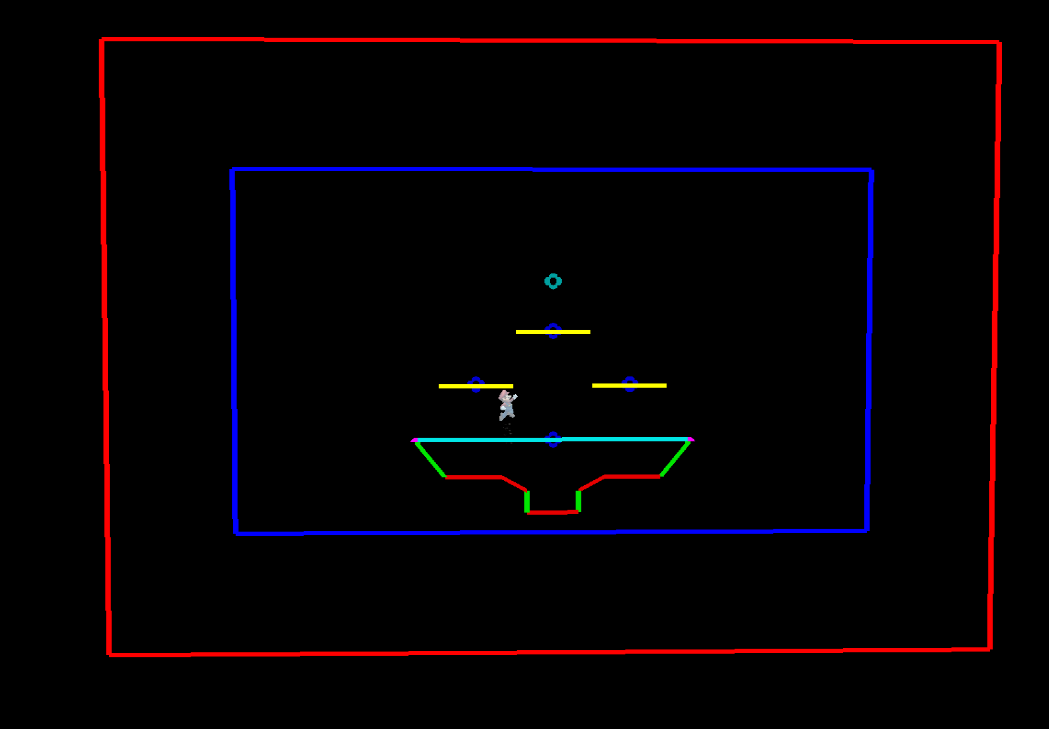
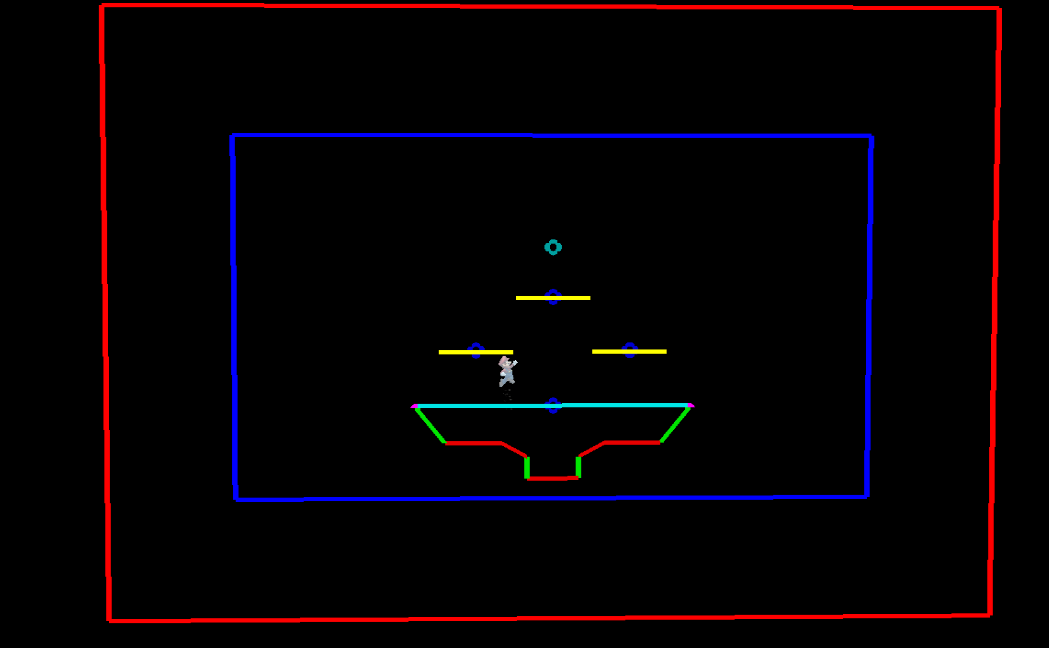
Fixed carousel controls to work and made images correct size

diff --git a/features.html b/features.html
@@ -65,91 +65,94 @@
     </header>
     <section id="centerSection">
         <div class="row d-flex align-items-center">
+            
             <div class="feature-text col-md-6 text-center text-md-end col-xl-3 order-xl-1">
                 <h1 class="general-header">
-                    One feature here
+                    Complete Rewrite
                 </h1>
-                heres a description on that stuff, how ya doing im filling this. Smash is a videogame about hitting
-                opponent till you knock them out of the field. I wrote a thing that lets you view exactly how collisions
-                and logic works in this environment
+                <p>
+                    Most of the original debug modes codes are very messy in design. This rework completely shifts logic from inside the gecko pass to individual <i>renderDebug</i> functions of each object. This way of working makes it so it is very generalisable. Hitbox renderring was written for fighters but automatically works for hazards on stages as well as subspace enemies and bosses.   
+                </p>
             </div>
-            <div class="col-md-6 text-center text-md-start col-xl-3 order-xl-3">
+            <div class="feature-text col-md-6 text-center text-md-start col-xl-3 order-xl-3">
                 <h1 class="general-header">
-                    A different feature here
+                    Clean Graphics
                 </h1>
-                heres a description on that stuff, how ya doing im filling this. Smash is a videogame about hitting
-                opponent till you knock them out of the field. I wrote a thing that lets you view exactly how collisions
-                and logic works in this environment
+                <p>
+                    Through using the games graphics engine, graphics are drawn directly to the screen instead of having to utilise gfx objects, removing limitations on number of hitboxes/effects on screen at once, as well as allow much more accurate display to be possible, e.g. interpolation between frames/between two ends of a hurtbox.
+                </p>
             </div>
 
-        <div id="feature-carousel" class="carousel slide col-xl-6 order-xl-2" data-ride="carousel">
-            <div class="carousel-inner">
-                <div class="carousel-item active">
-                    <img class="d-block w-100" src="/assets/img/collisionsPreview.png" alt="First slide">
-                    <div class="carousel-caption d-none d-md-block">
-                        Collision Display:
-                        <p>
-                            Allows users to view how the game interprets hitboxes and hurtboxes to better understand
-                            whether something should hit and how interactions play out
-                            <br>
-                            Also allows completely disabling the fighters render so that its easier to see the
-                            collisions.
-                        </p>
-                        <div class="progress">
-                            <div class="progress-bar progress-bar-striped" role="progressbar" style="width: 95%"
-                                aria-valuenow="95" aria-valuemin="0" aria-valuemax="100">
-                                completion
+            <div id="feature-carousel" class="carousel slide col-xl-6 order-xl-2" data-ride="carousel">
+                <div class="carousel-inner">
+                    <div class="carousel-item active">
+                        <img class="d-block w-100" src="/assets/img/collisionsPreview.png" alt="First slide">
+                        <div class="carousel-caption d-none d-md-block">
+                            Collision Display:
+                            <p>
+                                Allows users to view how the game interprets hitboxes and hurtboxes to better understand
+                                whether something should hit and how interactions play out
+                                <br>
+                                Also allows completely disabling the fighters render so that its easier to see the
+                                collisions.
+                            </p>
+                            <div class="progress">
+                                <div class="progress-bar progress-bar-striped" role="progressbar" style="width: 95%"
+                                    aria-valuenow="95" aria-valuemin="0" aria-valuemax="100">
+                                    completion
+                                </div>
                             </div>
-                        </div>
 
+                        </div>
+                    </div>
+                    <div class="carousel-item">
+                        <img class="d-block w-100" src="/assets/img/statusModulePreview.png" alt="Second slide">
+                        <div class="carousel-caption d-none d-md-block">
+                            Status Module Display:
+                            <p>
+                                Prints text to the screen detailing the exact action each fighter is in, as well as
+                                details
+                                on their subaction and what frame of animation they are on.
+                            </p>
+                            <div class="progress">
+                                <div class="progress-bar progress-bar-striped" role="progressbar" style="width: 50%"
+                                    aria-valuenow="50" aria-valuemin="0" aria-valuemax="100">
+                                    completion
+                                </div>
+                            </div>
+
+                        </div>
+                    </div>
+                    <div class="carousel-item">
+                        <img class="d-block w-100" src="/assets/img/stagecollisionsPreview.png" alt="Second slide">
+                        <div class="carousel-caption d-none d-md-block">
+                            Stage Collisions Display:
+                            <p>
+                                Allows you to disable the stage render entirely and instead draw the exact stage
+                                collisions
+                                the game uses.
+                                <br>
+                                This also allows viewing blastzones and camera boundaries.
+                            </p>
+                            <div class="progress">
+                                <div class="progress-bar progress-bar-striped" role="progressbar" style="width: 90%"
+                                    aria-valuenow="90" aria-valuemin="0" aria-valuemax="100">
+                                    completion
+                                </div>
+                            </div>
+
+                        </div>
                     </div>
                 </div>
-                <div class="carousel-item">
-                    <img class="d-block w-100" src="/assets/img/statusModulePreview.png" alt="Second slide">
-                    <div class="carousel-caption d-none d-md-block">
-                        Status Module Display:
-                        <p>
-                            Prints text to the screen detailing the exact action each fighter is in, as well as details
-                            on their subaction and what frame of animation they are on.
-                        </p>
-                        <div class="progress">
-                            <div class="progress-bar progress-bar-striped" role="progressbar" style="width: 50%"
-                                aria-valuenow="50" aria-valuemin="0" aria-valuemax="100">
-                                completion
-                            </div>
-                        </div>
-
-                    </div>
-                </div>
-                <div class="carousel-item">
-                    <img class="d-block w-100" src="/assets/img/stagecollisionsPreview.png" alt="Second slide">
-                    <div class="carousel-caption d-none d-md-block">
-                        Stage Collisions Display:
-                        <p>
-                            Allows you to disable the stage render entirely and instead draw the exact stage collisions
-                            the game uses.
-                            <br>
-                            This also allows viewing blastzones and camera boundaries.
-                        </p>
-                        <div class="progress">
-                            <div class="progress-bar progress-bar-striped" role="progressbar" style="width: 90%"
-                                aria-valuenow="90" aria-valuemin="0" aria-valuemax="100">
-                                completion
-                            </div>
-                        </div>
-
-                    </div>
-                </div>
+                <a class="carousel-control-prev" href="#feature-carousel" role="button" data-slide="prev">
+                    <span class="carousel-control-prev-icon" aria-hidden="true"></span>
+                    <span class="sr-only">Previous</span>
+                </a>
+                <a class="carousel-control-next" href="#feature-carousel" role="button" data-slide="next">
+                    <span class="carousel-control-next-icon" aria-hidden="true"></span>
+                    <span class="sr-only">Next</span>
+                </a>
             </div>
-            <a class="carousel-control-prev" href="#carouselExampleControls" role="button" data-slide="prev">
-                <span class="carousel-control-prev-icon" aria-hidden="true"></span>
-                <span class="sr-only">Previous</span>
-            </a>
-            <a class="carousel-control-next" href="#carouselExampleControls" role="button" data-slide="next">
-                <span class="carousel-control-next-icon" aria-hidden="true"></span>
-                <span class="sr-only">Next</span>
-            </a>
-        </div>
         </div>
     </section>
     <footer class="container-fluid">
